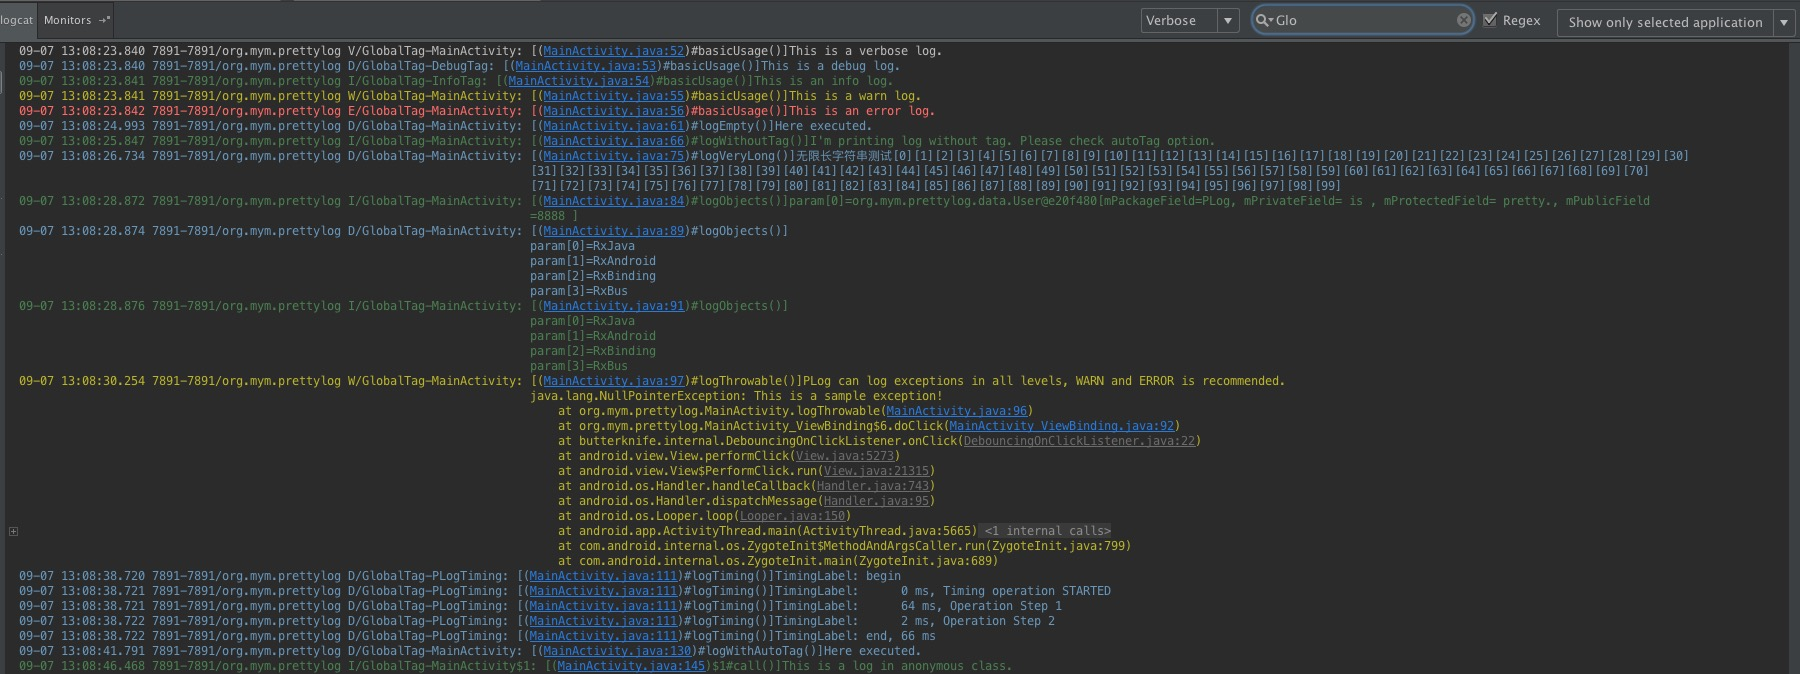
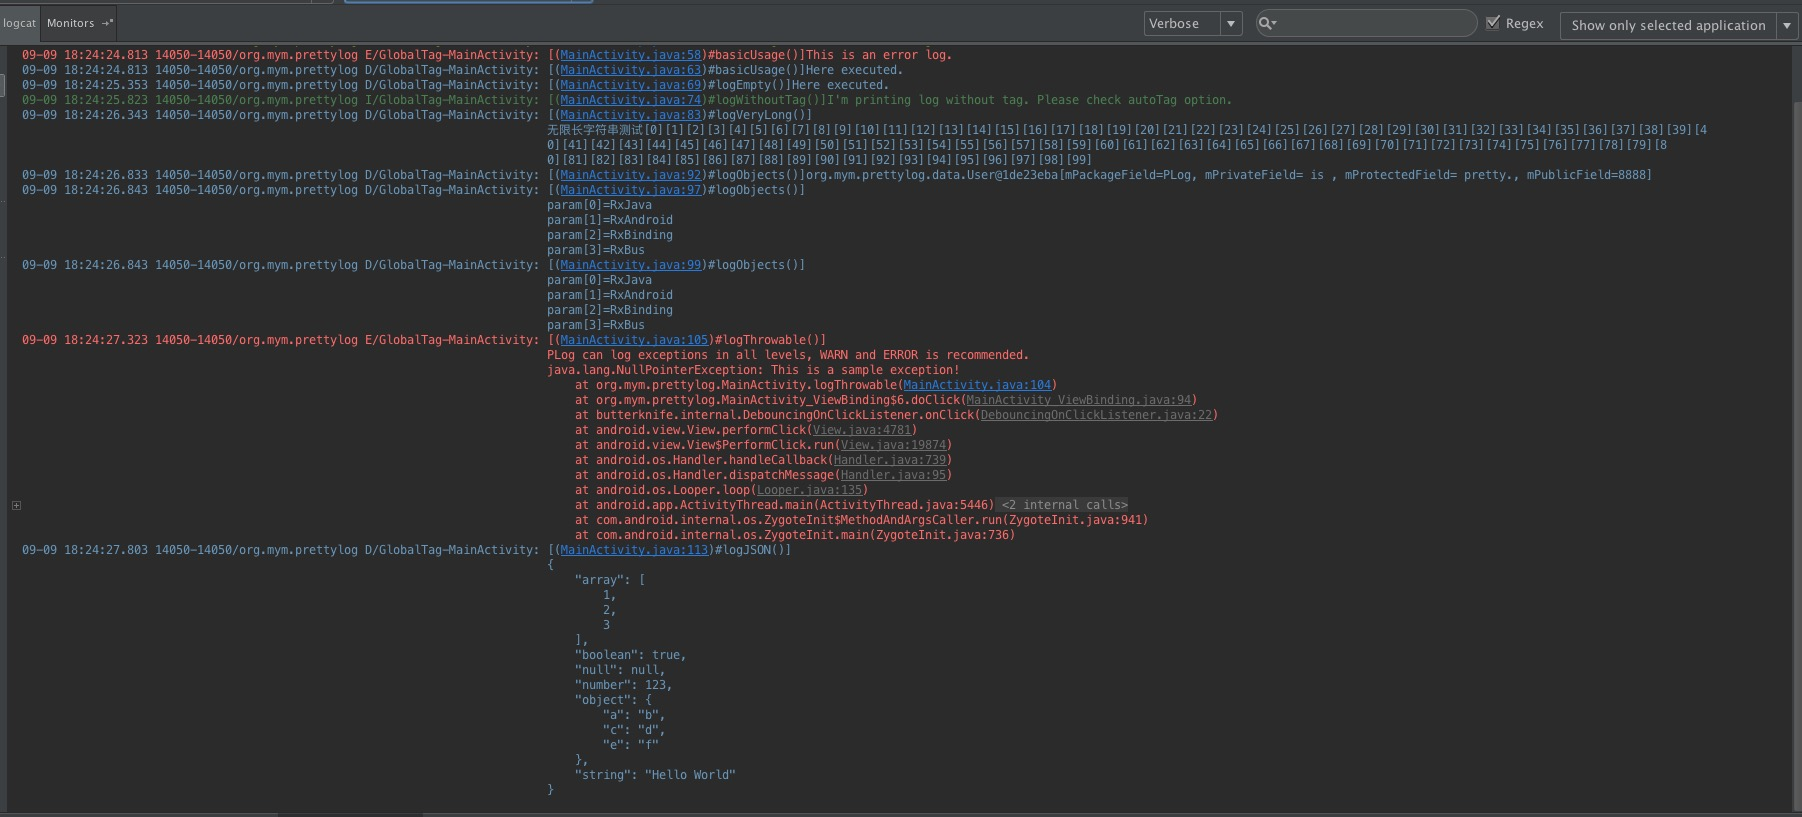
Release v1.5.0, Resolved #10.

Changed region(s): [[0.0, 0.0, 1.0, 1.0], [0.9956, 0.1246, 1.0, 0.997]]

diff --git a/plog/src/main/java/org/mym/plog/PLog.java b/plog/src/main/java/org/mym/plog/PLog.java
@@ -15,7 +15,6 @@ import org.mym.plog.util.TimingLogger;
 
 /**
  * Entry class of log module, settings, and init configs are all here.
- * <p/>
  * <p>You don't need to create this class since it is only an utility class, for configs,
  * please use {@link #init(PLogConfig)}. <br>
  * Also, it is strongly recommended to create config instance using
@@ -338,7 +337,7 @@ public final class PLog {
         }
         //But lineInfo maybe null if user disabled keepLineNumber feature.
         //So call to logger cannot be put in the if block above.
-        if (logContent != null){
+        if (logContent != null) {
             callLoggerPrint(level, tag, logContent, logger);
         }
     }

diff --git a/CHANGELOG.md b/CHANGELOG.md
@@ -1,3 +1,8 @@
+#### Version 1.5.0 *(2016-09-09)*
+* **Refactored library! more extensible and flexible.**
+* **NEW:JSON Support**
+* Fix a redundant space when formatting a normal object.
+
 #### Version 1.4.0 *(2016-09-08)*
 * Improved soft wrap line rule.
 * Timing log is printed as single log now (#8)
